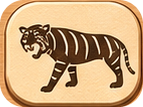
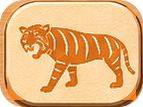
style: color beast chess animals by rank

diff --git a/src/components/BeastChessPiece.vue b/src/components/BeastChessPiece.vue
@@ -17,7 +17,7 @@ const label = computed(() => `${BEAST_SIDE_NAMES[props.piece.side]}${BEAST_KIND_
 </script>
 
 <template>
-  <span class="beast-piece" :class="[piece.side, { selected }]" :data-kind="piece.kind">
+  <span class="beast-piece" :class="[piece.side, `kind-${piece.kind}`, { selected }]" :data-kind="piece.kind">
     <span class="beast-piece-base" aria-hidden="true"></span>
     <img v-if="!failed" :src="imageSource" :alt="label" draggable="false" @error="failed = true">
     <span v-else class="beast-piece-fallback">{{ BEAST_KIND_NAMES[piece.kind] }}</span>
@@ -25,10 +25,19 @@ const label = computed(() => `${BEAST_SIDE_NAMES[props.piece.side]}${BEAST_KIND_
 </template>
 
 <style scoped>
-.beast-piece{position:absolute;inset:7% 5%;z-index:2;display:grid;place-items:center;border-radius:50%;pointer-events:none;transform-origin:center;transition:transform .16s ease,filter .16s ease}
-.beast-piece img{position:relative;z-index:2;width:100%;height:100%;object-fit:contain;border-radius:18%;filter:drop-shadow(0 3px 3px #3e281b45)}
-.beast-piece-base{position:absolute;inset:0 1%;border-radius:50%;background:#fff5df;box-shadow:0 1px 4px #56382035}
-.beast-piece.upper .beast-piece-base{background:#7d3f1e}
+.beast-piece{position:absolute;inset:4% 2%;z-index:2;display:grid;place-items:center;border-radius:50%;pointer-events:none;transform-origin:center;transition:transform .16s ease,filter .16s ease}
+.beast-piece img{position:relative;z-index:2;width:100%;height:100%;object-fit:contain;border-radius:18%;filter:saturate(1.32) contrast(1.1) brightness(1.04) drop-shadow(0 3px 3px #3e281b52)}
+.beast-piece{--beast-accent:#b67a3c;--beast-halo:#f0d6a4}
+.beast-piece.kind-elephant{--beast-accent:#71818e;--beast-halo:#c6d2da}
+.beast-piece.kind-lion{--beast-accent:#d7a11c;--beast-halo:#ffe18a}
+.beast-piece.kind-tiger{--beast-accent:#d86a19;--beast-halo:#ffb45b}
+.beast-piece.kind-leopard{--beast-accent:#bd7f12;--beast-halo:#ebbf62}
+.beast-piece.kind-wolf{--beast-accent:#7e8995;--beast-halo:#d2d9df}
+.beast-piece.kind-dog{--beast-accent:#a7653e;--beast-halo:#e3b38f}
+.beast-piece.kind-cat{--beast-accent:#81929b;--beast-halo:#e9f0f1}
+.beast-piece.kind-rat{--beast-accent:#8a7460;--beast-halo:#cdb99f}
+.beast-piece-base{position:absolute;inset:-4%;border-radius:50%;background:radial-gradient(circle at 45% 38%,#fffdf7,var(--beast-halo));box-shadow:0 0 0 2px var(--beast-accent),0 0 9px color-mix(in srgb,var(--beast-accent) 58%,transparent),0 2px 5px #56382042}
+.beast-piece.upper .beast-piece-base{background:radial-gradient(circle at 45% 38%,#9b5c2f,var(--beast-halo))}
 .beast-piece.selected{filter:drop-shadow(0 0 5px #c34732);transform:scale(1.07)}
 .beast-piece.selected::after{position:absolute;inset:-5%;z-index:1;content:"";border:2px solid #f8e4b5;border-radius:50%;box-shadow:0 0 0 2px #9c382d,0 0 14px #e9bd6a}
 .beast-piece-fallback{position:relative;z-index:3;display:grid;place-items:center;width:72%;aspect-ratio:1;border:2px solid #f1d9ad;border-radius:50%;background:#a64b3c;color:#fff8e8;font:700 clamp(15px,4vw,28px)/1 "STKaiti","KaiTi",serif}

diff --git a/scripts/prepare-beast-chess-assets.py b/scripts/prepare-beast-chess-assets.py
@@ -2,7 +2,7 @@ from __future__ import annotations
 
 from pathlib import Path
 
-from PIL import Image, ImageDraw
+from PIL import Image, ImageDraw, ImageOps
 
 
 ROOT = Path(__file__).resolve().parents[1]
@@ -56,6 +56,19 @@ REPLACEMENTS = {
     (6, 2): (5, 2),
 }
 
+# Stronger, kind-specific animal colors. Each palette keeps enough tonal range
+# to preserve the original illustration's eyes, stripes and fur details.
+KIND_COLORS = {
+    "elephant": ("#3d5666", "#cad5dc"),
+    "lion": ("#8b5200", "#ffd24a"),
+    "tiger": ("#7c2800", "#ff8b24"),
+    "leopard": ("#704200", "#e8aa32"),
+    "wolf": ("#586a79", "#d4dde4"),
+    "dog": ("#75442c", "#dda071"),
+    "cat": ("#607887", "#f3f8f8"),
+    "rat": ("#75614e", "#d3bfa4"),
+}
+
 
 def cell_box(x: int, y: int) -> tuple[int, int, int, int]:
     image_row = 8 - y
@@ -78,6 +91,52 @@ def extract_piece(source: Image.Image, side: str, x: int, y: int) -> Image.Image
     crop = source.crop((left + 7, top + 9, right - 7, bottom - 9)).convert("RGBA")
     crop.putalpha(rounded_mask(crop.size, 24))
     return crop
+
+
+def smoothstep(value: float, low: float, high: float) -> float:
+    if value <= low:
+        return 0.0
+    if value >= high:
+        return 1.0
+    progress = (value - low) / (high - low)
+    return progress * progress * (3 - 2 * progress)
+
+
+def colorize_animal(piece: Image.Image, side: str, kind: str) -> Image.Image:
+    """Tint the animal silhouette while preserving the supplied wooden base."""
+    rgb = piece.convert("RGB")
+    alpha = piece.getchannel("A")
+    grayscale = rgb.convert("L")
+    dark, light = KIND_COLORS[kind]
+    color_input = (grayscale.point(lambda value: min(255, 80 + value * 2))
+                   if side == "lower" else grayscale)
+    tinted = ImageOps.colorize(color_input, black=dark, white=light).convert("RGBA")
+    tinted.putalpha(alpha)
+
+    width, height = piece.size
+    inset_x = max(7, round(width * 0.05))
+    inset_y = max(7, round(height * 0.07))
+    mask = Image.new("L", (width, height), 0)
+    mask_pixels = mask.load()
+    rgb_pixels = rgb.load()
+    alpha_pixels = alpha.load()
+
+    for y in range(inset_y, height - inset_y):
+        for x in range(inset_x, width - inset_x):
+            if alpha_pixels[x, y] < 32:
+                continue
+            red, green, blue = rgb_pixels[x, y]
+            luminance = 0.299 * red + 0.587 * green + 0.114 * blue
+            if side == "lower":
+                # Dark-brown lower-side animals against a pale wooden base.
+                weight = 1 - smoothstep(luminance, 115, 170)
+            else:
+                # Cream-colored upper-side animals against a dark wooden base.
+                weight = smoothstep(luminance, 145, 205)
+            if weight:
+                mask_pixels[x, y] = round(weight * alpha_pixels[x, y])
+
+    return Image.composite(tinted, piece, mask)
 
 
 def clean_board(source: Image.Image) -> Image.Image:
@@ -106,7 +165,8 @@ def main() -> None:
     clean_board(source).save(OUTPUT / "board.png", optimize=True)
     for side, pieces in PIECES.items():
         for (x, y), kind in pieces.items():
-            extract_piece(source, side, x, y).save(piece_dir / f"{side}-{kind}.png", optimize=True)
+            colored_piece = colorize_animal(extract_piece(source, side, x, y), side, kind)
+            colored_piece.save(piece_dir / f"{side}-{kind}.png", optimize=True)
 
     print(f"Prepared beast-chess board and 16 pieces in {OUTPUT}")
 
